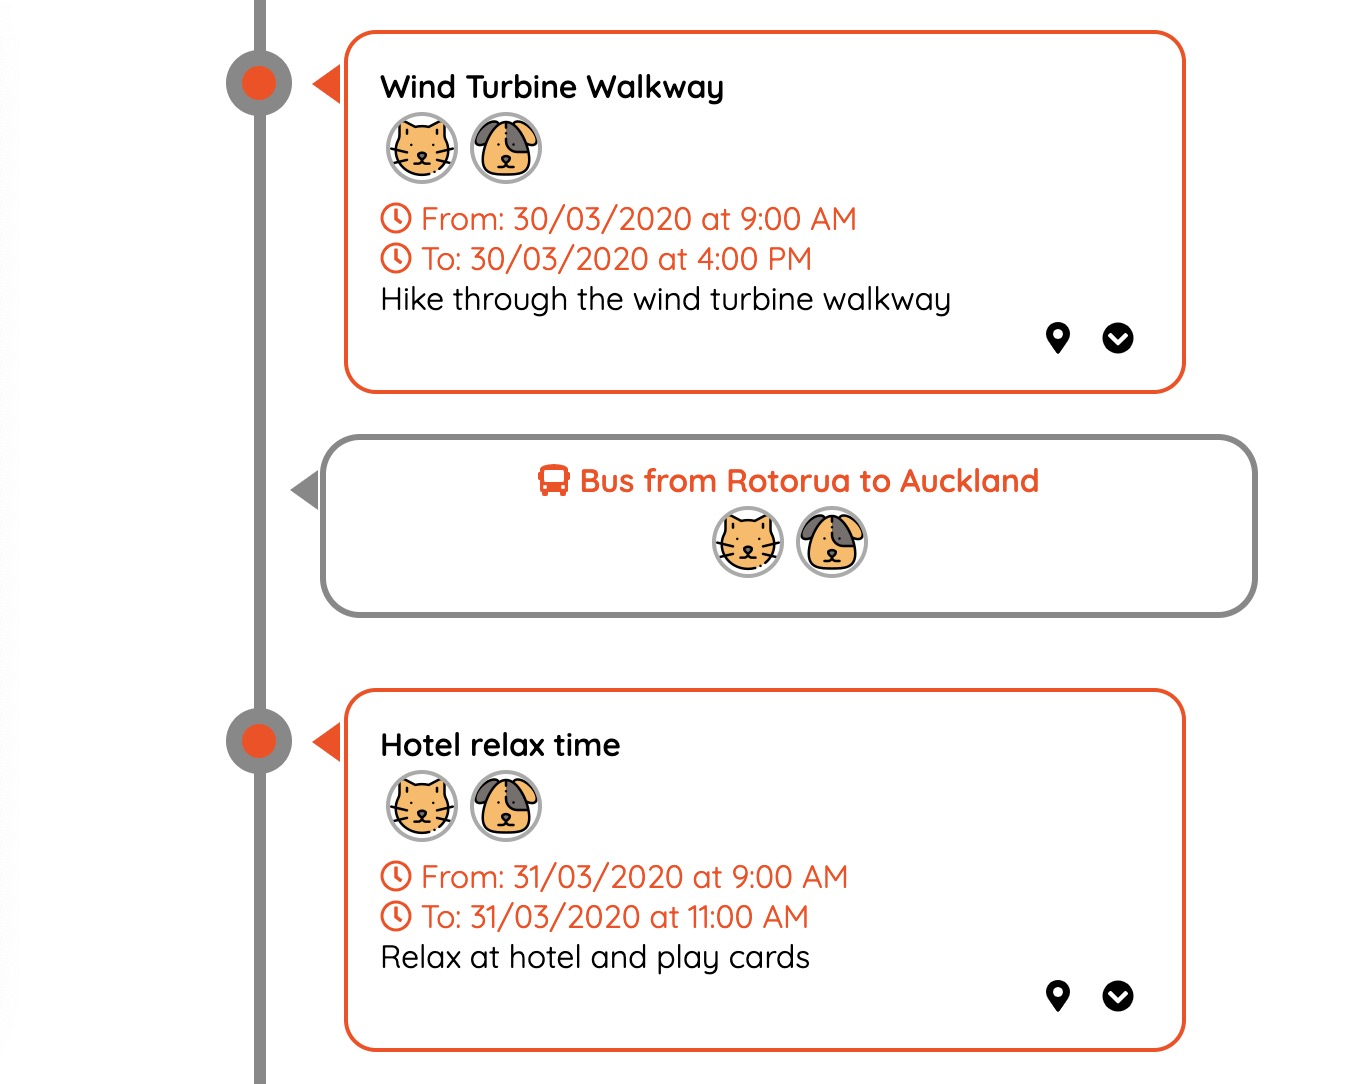
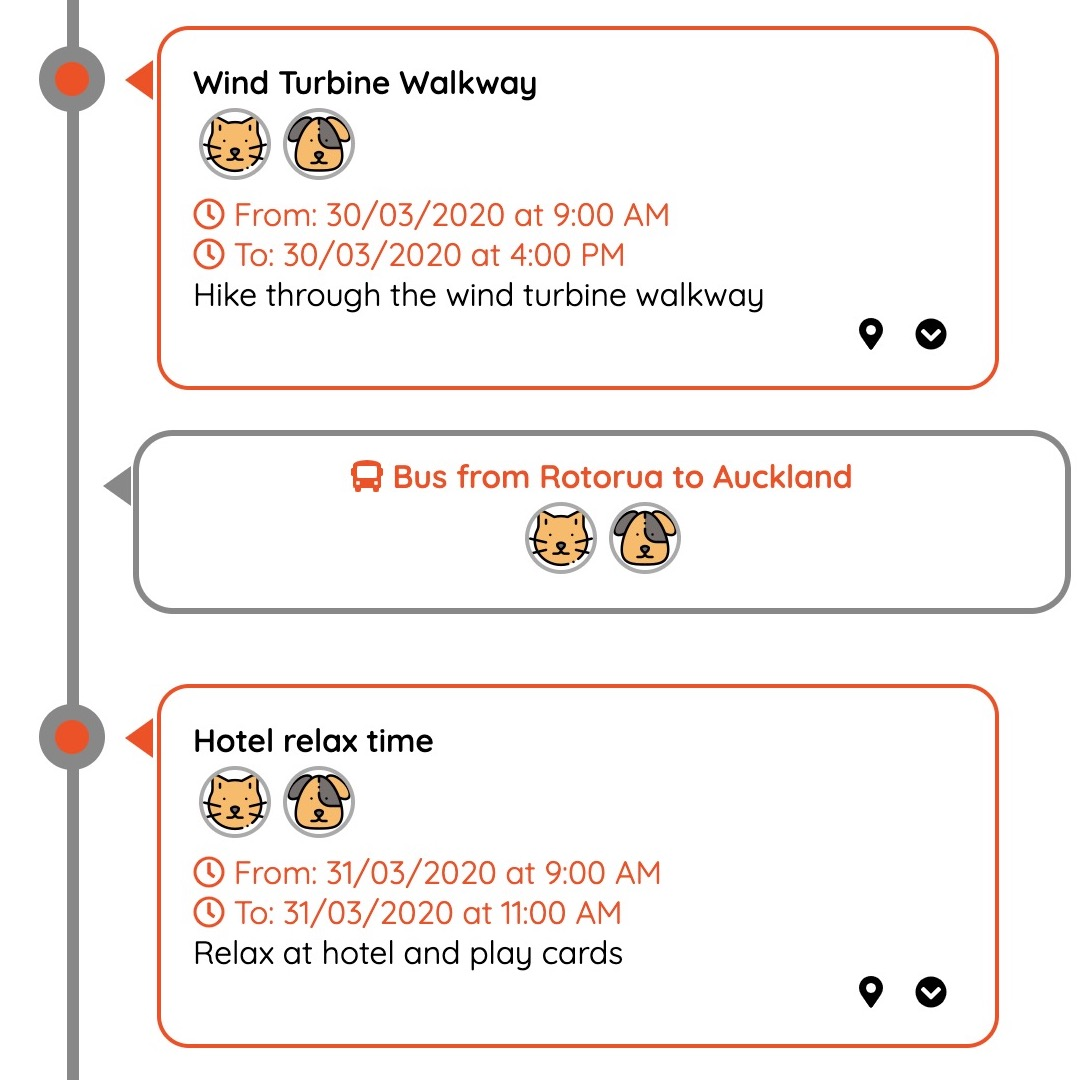
Improve LandingSlide to be centred

Changed region(s): [[0.0311, 0.0, 0.9963, 1.0]]

diff --git a/src/spa/css/landing-preview.module.css b/src/spa/css/landing-preview.module.css
@@ -1,125 +1,19 @@
-.containerLeft, .containerRight {
-    width: 100vw;
-    height: 100%;
-    background-color: white;
-    overflow: hidden;
-    position: relative;
-    color: #333;
-    outline: solid #eee 2px;
-}
-
-.descriptions > p:nth-child(even) {
-    position: relative;
-    left: 2rem;
-}
-
-.descriptions > p:last-child {
-    position: relative;
-    left: 1rem;
-    top: 1rem;
-}
-
-.title {
-    position: relative;
-    left: -0.5rem;
-}
-
-
-.timelinePreview img, .logoPreview img, .chatPreview img, .mapPreview img {
-    width: 100%;
-    position: relative;
-    top: 0;
-    bottom: 0;
-    margin-left: 10px;
-    overflow: hidden;
-}
-
-
-.timelinePreview {
-    position: relative;
-    top: 10vh;
-    bottom: 0;
-    left: 3%;
-    width: 25rem;
-    max-width: 95%;
-    height: 100%;
-    overflow: hidden;
-}
-
-
-.logoPreview, .chatPreview, .mapPreview {
-    position: relative;
-    left: 3%;
-    width: 25rem;
-    height: 30rem;
-    max-width: 95%;
-}
-
-.logoPreview {
-    top: 5vh;
-}
-
-.introLeft, .introRight {
-    grid-area: intro;
-    max-width: 30rem;
-}
-
-.logoPreview, .timelinePreview, .chatPreview, .mapPreview {
-    grid-area: preview;
-}
-
-@media screen and (min-width: 700px) {
-    .containerLeft {
-        display: grid;
-        grid-template-columns: 20rem auto;
-        grid-template-areas: 'preview intro';
-        grid-gap: 6vw;
-    }
-    .containerRight {
-        display: grid;
-        grid-template-columns: 2rem 18rem 20rem 3rem;
-        grid-template-areas: '. intro preview .';
-        grid-gap: 2vw;
-    }
-
-    .introRight, .introLeft {
-        font-size: 1.5rem;
-        position: relative;
-        top: 6rem;
-    }
-
-    .containerLeft form, .containerRight form {
-        position: relative;
-        top: 2rem;
-    }
-
-    .chatPreview, .mapPreview, .timelinePreview {
-        top: 16vh;
-    }
-}
-
 @media screen and (max-width: 700px) {
-    .logoPreview {
-        width: 18rem;
-        top: 2vh;
-    }
 
-    .chatPreview, .mapPreview {
-        top: 2vh;
-    }
+    .containerRight, .containerLeft {
+        width: 100vw;
+        height: 100%;
+        position: relative;
 
-    .timelinePreview {
-        top: 5vh;
     }
-
     .introRight, .introLeft {
         position: absolute;
         bottom: 0;
         left: 0;
-        width: 100%;
-        height: 42vmax;
+        width: 100vw;
+        height: 40vh;
         background-color: rgba(256, 256, 256, 0.95);
-        font-size: 3.5vw;
+        font-size: 4.5vw
     }
 
     .introLeft::after, .introRight::after {
@@ -130,8 +24,7 @@
         left: 0;
         width: 0;
         height: 0;
-        border-bottom: 60vw solid rgba(256, 256, 256, 0.95);
-
+        border-bottom: 40vh solid rgba(256, 256, 256, 0.95);
     }
 
     .introLeft::after {
@@ -145,46 +38,116 @@
     .introRight > div {
         z-index: 3;
         position: absolute;
-        width: fit-content;
-        left: 1rem;
-        bottom: 6rem;
-    }
-    .introLeft > div{
-        z-index: 3;
-        position: absolute;
-        width: fit-content;
-        right: 1rem;
-        bottom: 6rem;
+        width: 20rem;
+        left: 4rem;
+        bottom: 8rem;
     }
 
-    .introRight h1, .introLeft h1, .introRight p, .introLeft p {
+    .introLeft > div {
+        z-index: 3;
+        position: absolute;
+        width: 20rem;
+        right: 4rem;
+        bottom: 8rem;
+    }
+
+    .logo {
         position: relative;
-        left: 1rem;
+        top: 1rem;
+        width: 70vw;
+    }
+    .preview {
+        width: 100vw;
     }
 
     .containerLeft form, .containerRight form {
         position: relative;
-        top: 1rem;
+        top: 2rem;
+    }
+
+}
+
+@media screen and (min-width: 700px) {
+    .containerLeft, .containerRight {
+        width: 80vw;
+        position: absolute;
+        top: 50%;
+        left: 50%;
+        -ms-transform: translate(-50%, -50%);
+        transform: translate(-50%, -50%);
+        font-size: 3vw;
+    }
+
+    .containerLeft {
+        display: grid;
+        grid-template-columns: 36vw 40vw;
+        grid-template-areas: 'preview intro';
+        grid-gap: 4vw;
+    }
+
+    .containerRight {
+        display: grid;
+        grid-template-columns: 40vw 36vw;
+        grid-template-areas: 'intro preview';
+        grid-gap: 4vw;
+    }
+
+    .containerLeft form, .containerRight form {
+        position: relative;
+        top: 2.5rem;
+    }
+
+    .introLeft, .introRight {
+        position: relative;
+        bottom: 3rem;
+    }
+
+    .logo {
+        position: relative;
+        bottom: 2rem;
     }
 
 }
 
 @media screen and (min-width: 1000px) {
+    .containerLeft, .containerRight {
+        width: 62vw;
+        font-size: 2.5vw;
+    }
+
     .containerLeft {
-        grid-template-columns: 7rem 30rem auto;
-        grid-template-areas: '. preview intro';
-        grid-gap: 5vw;
-        left: 0;
+        grid-template-columns: 28vw 30vw;
+        grid-template-areas: 'preview intro';
+        grid-gap: 4vw;
     }
 
     .containerRight {
-        grid-template-columns: 10rem 25rem 35rem;
-        grid-template-areas: '. intro preview';
-        right: 0;
-    }
-
-    .timelinePreview {
-        width: 40rem;
+        grid-template-columns: 30vw 28vw;
+        grid-template-areas: 'intro preview';
+        grid-gap: 4vw;
     }
 
 }
+
+.containerLeft, .containerRight {
+    color: #333;
+}
+
+.introLeft, .introRight {
+    grid-area: intro;
+}
+
+.preview, .logo {
+    grid-area: preview;
+}
+
+.preview img, .logo img {
+    width: 100%;
+}
+
+.containerLeft h1 {
+    position: relative;
+    left: -0.5rem;
+}
+
+

diff --git a/src/spa/components/landing/LandingSlide.js b/src/spa/components/landing/LandingSlide.js
@@ -6,13 +6,6 @@ import scrollStyle from '../../css/snap-scroll.module.css';
 import PropTypes from 'prop-types';
 import JoinUsForm from './JoinUsForm';
 
-const previewStyles = {
-  'TripTime!': styles.logoPreview,
-  'Review': styles.timelinePreview,
-  'Plot': styles.mapPreview,
-  'Collaborate': styles.chatPreview,
-};
-
 class LandingSlide extends React.Component {
   render() {
     const image = this.props.image;
@@ -22,26 +15,22 @@ class LandingSlide extends React.Component {
 
     return (
       <div className={scrollStyle['slide']}>
-        <div className={alignLeft ? styles.containerLeft : styles.containerRight}>
-
-          <div className={previewStyles[title]}>
+        <div
+          className={alignLeft ? styles.containerLeft : styles.containerRight}
+        >
+          <div className={title === 'TripTime!' ? styles.logo : styles.preview}>
             <img src={image} alt={title} />
           </div>
-
           <div className={alignLeft ? styles.introLeft : styles.introRight}>
-            <h1 className={styles.title}>{title}</h1>
-
-            <div className={styles.descriptions}>
-              {description}
+            <div>
+              <h1>{title}</h1>
+              <div>{description}</div>
+              <JoinUsForm />
             </div>
-
-            <JoinUsForm invitation />
           </div>
-
         </div>
       </div>
     );
-
   }
 }
 

diff --git a/src/spa/components/landing/VisitorLandingPage.js b/src/spa/components/landing/VisitorLandingPage.js
@@ -20,21 +20,27 @@ class VisitorLandingPage extends React.Component {
           alignLeft={false}
           image={'/img/feature-preview/map-plot.jpg'}
           title={'Plot'}
-          description={'Pin new destinations on the map and your friends will see them immediately.'}
+          description={
+            'Pin new destinations on the map and your friends will see them immediately.'
+          }
         />
 
         <LandingSlide
           alignLeft={true}
           image={'/img/feature-preview/chat-box.jpg'}
           title={'Collaborate'}
-          description={'Chat with your friends as you plan your next trip together.'}
+          description={
+            'Chat with your friends as you plan your next trip together.'
+          }
         />
 
         <LandingSlide
           alignLeft={false}
           image={'/img/feature-preview/timeline.jpg'}
           title={'Review'}
-          description={'Review where you are planning to go at a glance in a timeline.'}
+          description={
+            'Review where you are planning to go at a glance in a timeline.'
+          }
         />
 
         <SiteInfo />

diff --git a/src/spa/css/snap-scroll.module.css b/src/spa/css/snap-scroll.module.css
@@ -1,6 +1,7 @@
 .container {
     overflow: auto;
     scroll-snap-type: y mandatory;
+
 }
 
 .slide {
@@ -9,5 +10,7 @@
     box-sizing: border-box;
     scroll-snap-align: center;
     position: relative;
+    outline: solid #eee 2px;
+
 }
 
